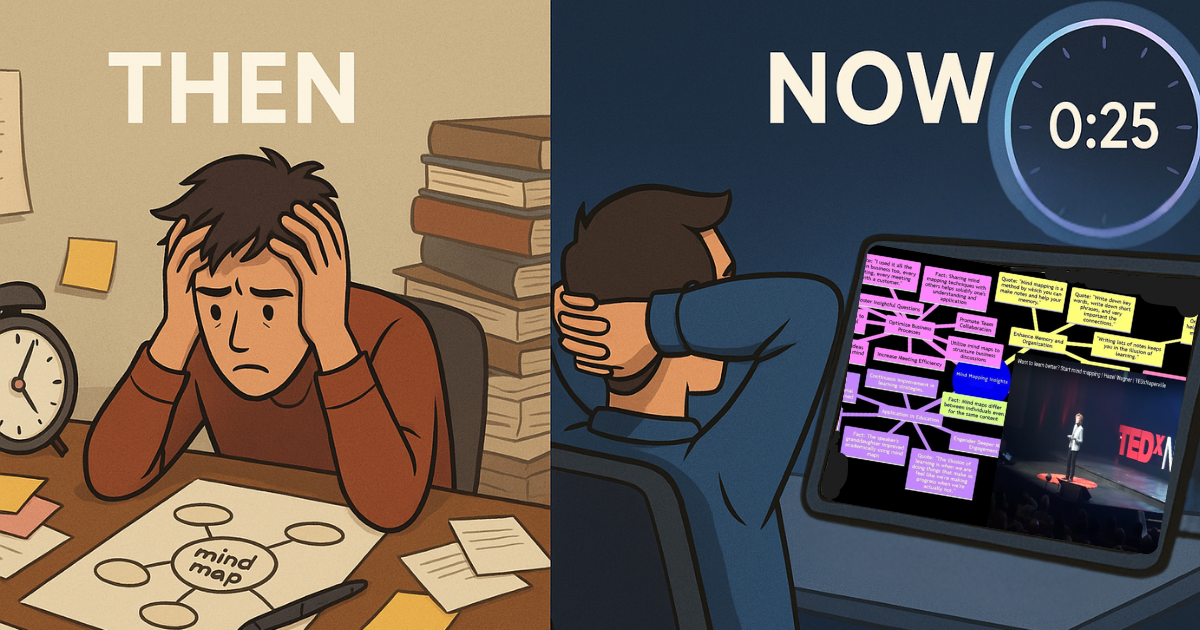
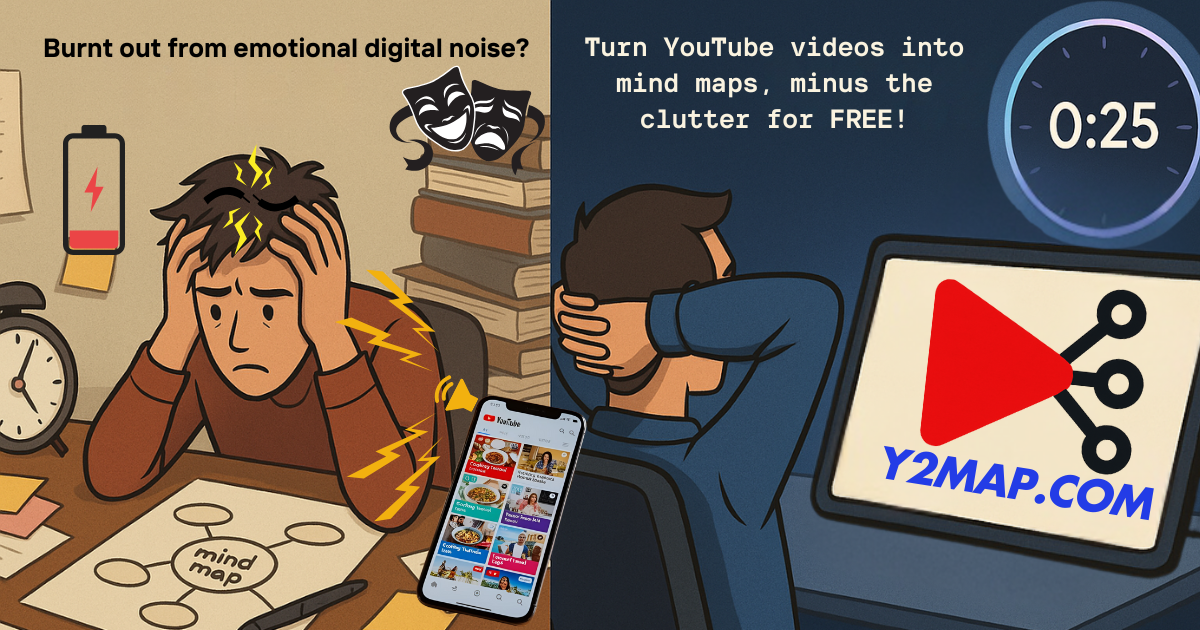
updated opengraph

diff --git a/src/app/layout.tsx b/src/app/layout.tsx
@@ -18,13 +18,13 @@ export const metadata: Metadata = {
     type: "website",
     locale: "en_US",
     title: "YouTube to Mind Map - Visual Learning Revolution",
-    description: "Convert YouTube videos into interactive mind maps. Learn faster, understand better, and retain more with AI-powered visual learning.",
+    description: "Burnt out from digital noise? Turn YouTube videos into mind maps, minus the clutter for FREE!",
     images: ["/opengraph-image.png"]
   },
   twitter: {
     card: "summary_large_image",
     title: "Y2Map - Convert YouTube Videos to Mind Maps",
-    description: "Transform YouTube videos into structured mind maps for better learning and retention",
+    description: "Burnt out from digital noise? Turn YouTube videos into mind maps, minus the clutter for FREE!",
     images: ["https://www.y2map.com/opengraph-image.png"],
   },
   robots: {
